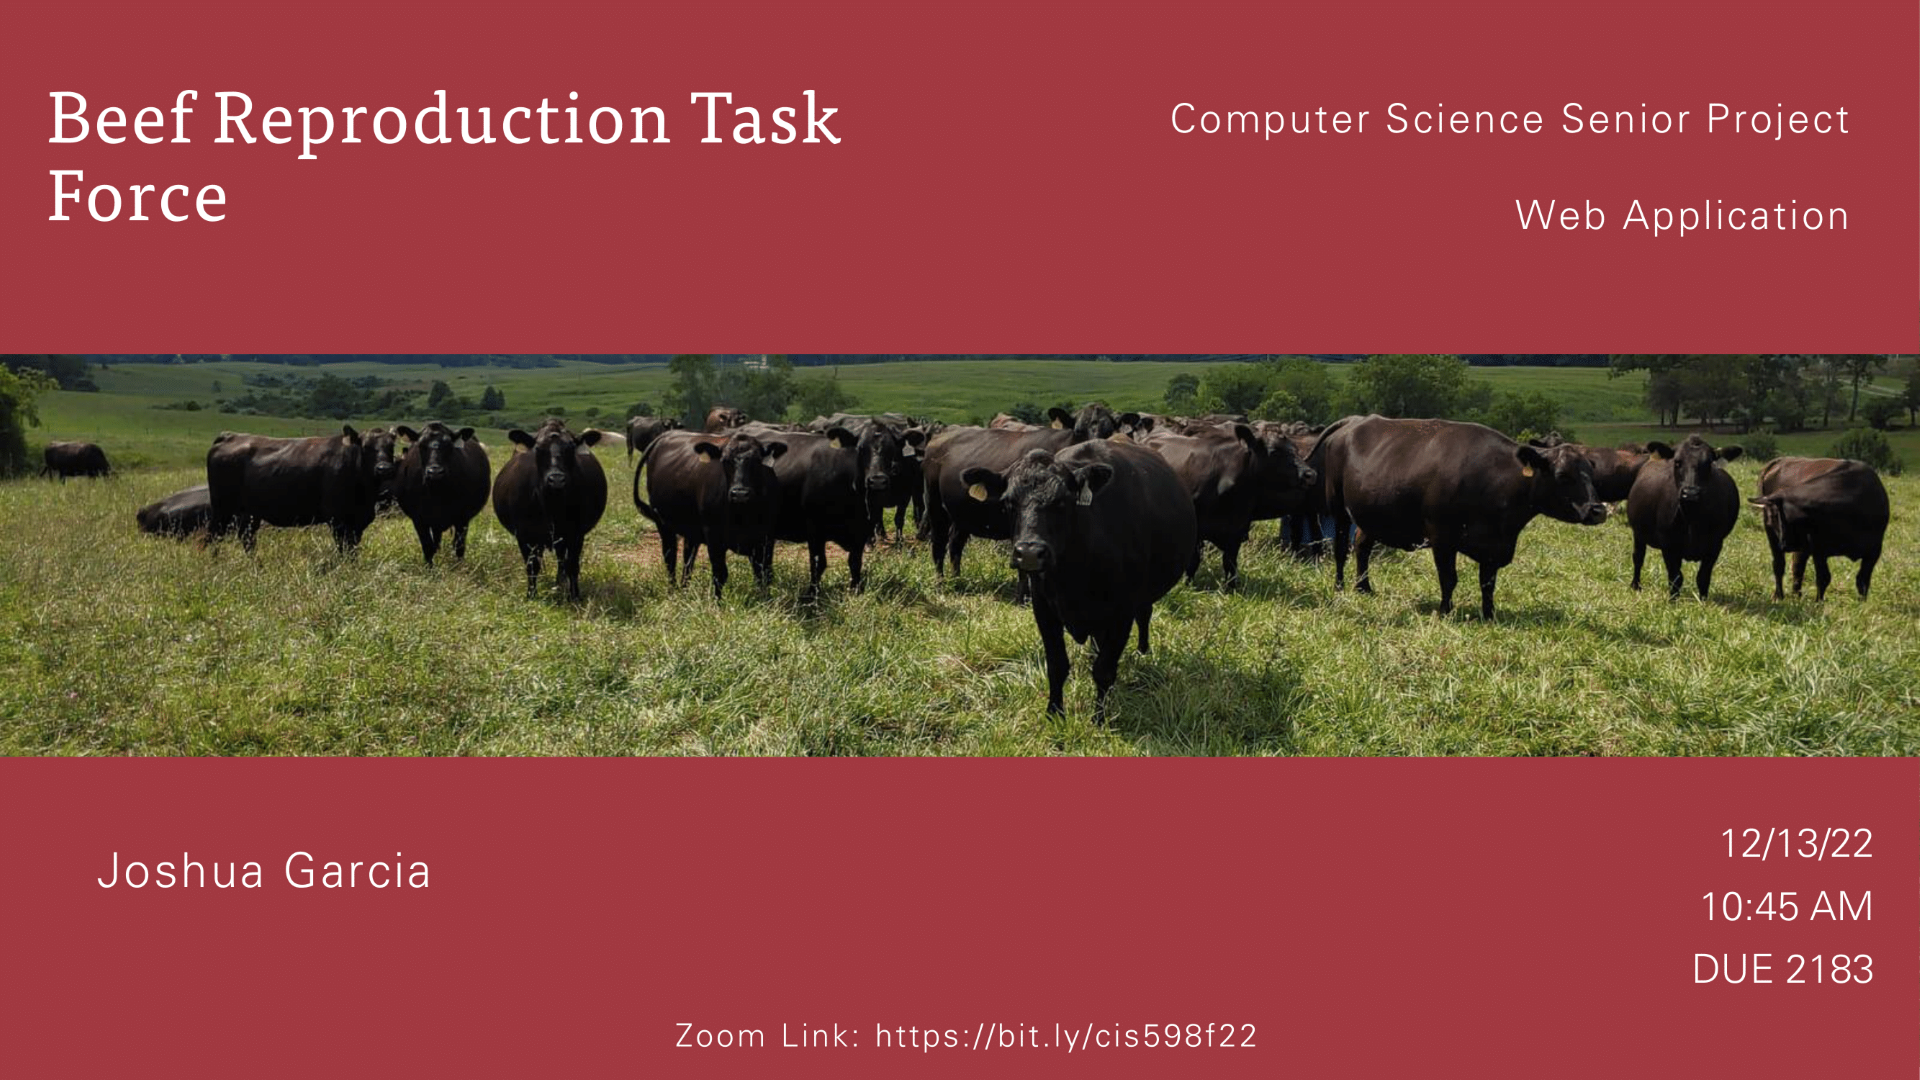
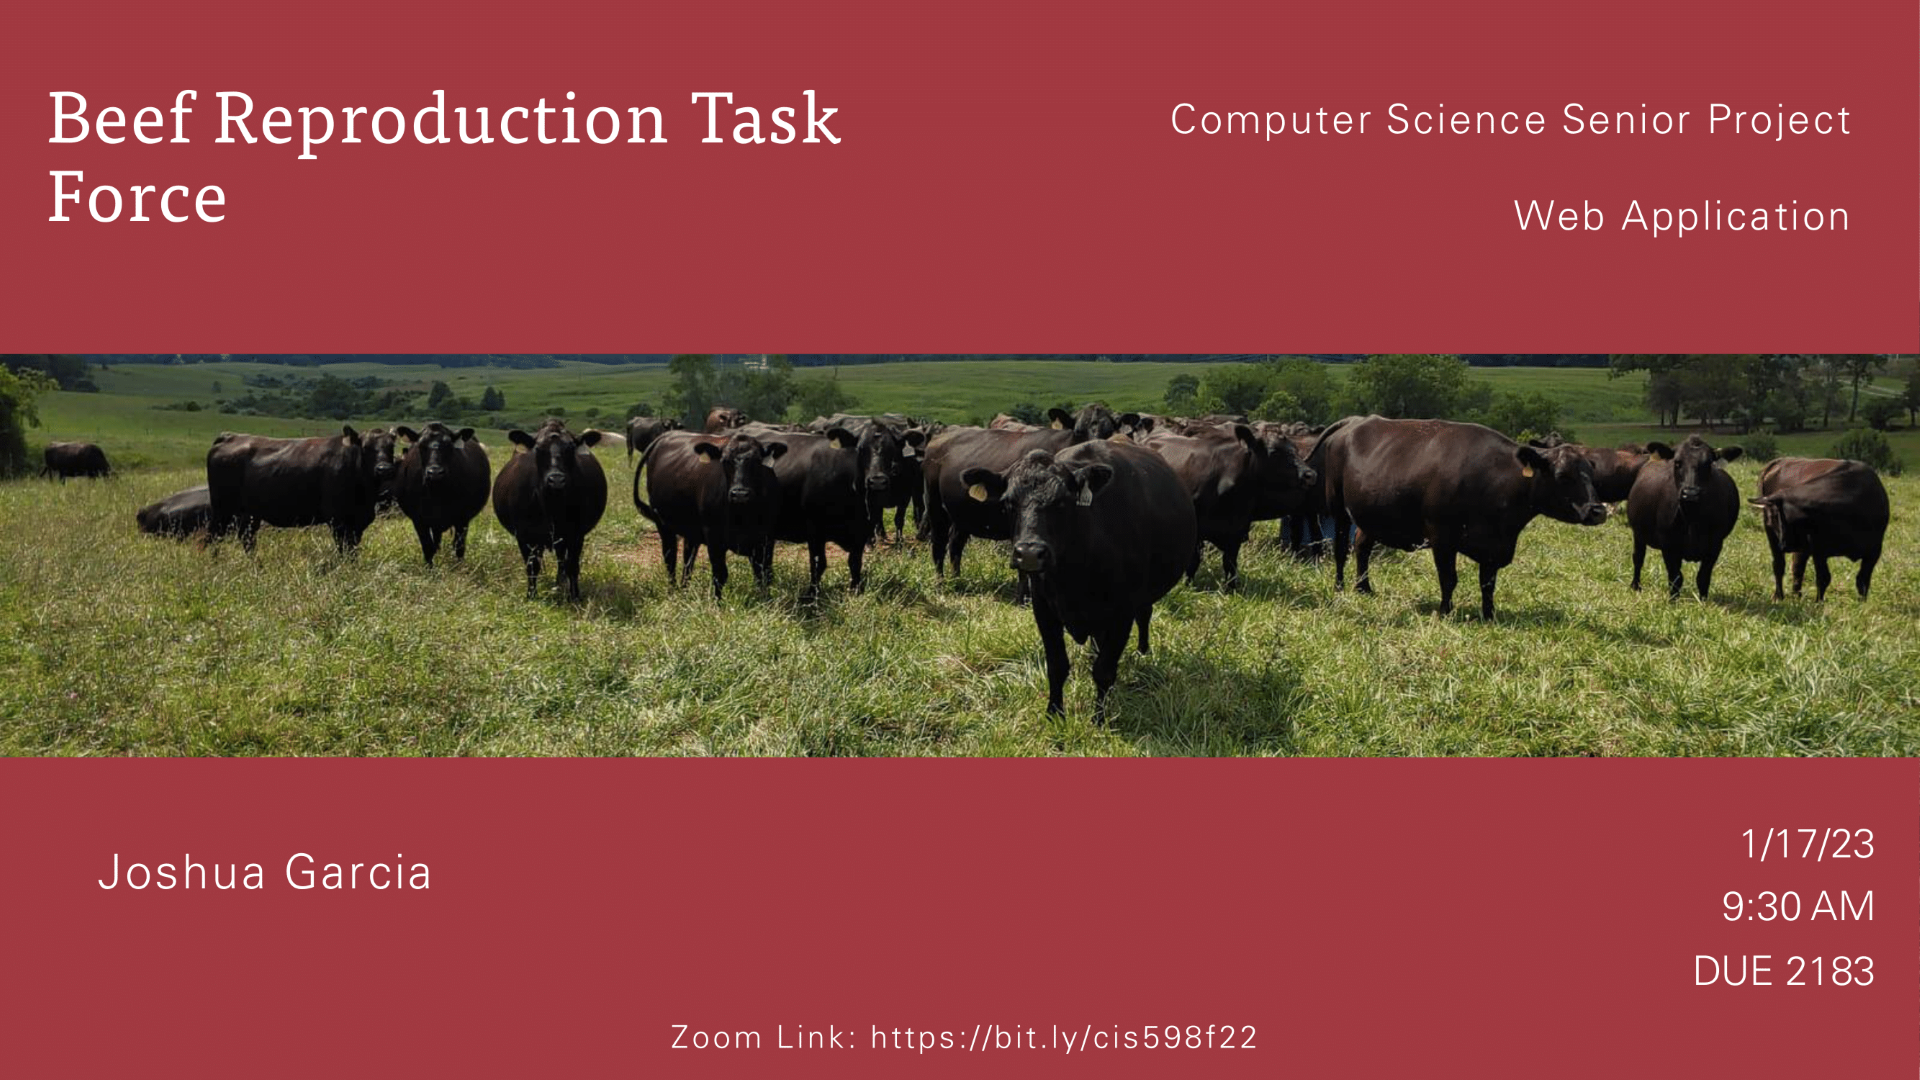
Update Presentation & Theme

diff --git a/content/b-schedule/01-fall2022.md b/content/b-schedule/01-fall2022.md
@@ -11,7 +11,6 @@ All presentations will be streamed on Zoom at [https://bit.ly/cis598f22](https:/
 | [Shepherd's Crossing]({{< ref "01-fall2022#2" >}}) | Zane Roberts | Bean | Tue., Dec. 13, 2022 | 8:15 - 9:00 | DUE 2168 |
 | [Terrestrial Things]({{< ref "01-fall2022#3" >}}) | Graham Mathews | Bean | Tue., Dec. 13, 2022 | 9:00 - 9:45 | DUE 2168 |
 | [Case Master]({{< ref "01-fall2022#4" >}}) | Charles "Trey" Bohlender | Bean | Tue., Dec. 13, 2022 | 10:00 - 10:45 | DUE 2183 |
-| [Cow Reproduction App]({{< ref "01-fall2022#5" >}}) | Joshua Garcia | Bean | Tue., Dec. 13, 2022 | 10:45 - 11:30 | DUE 2183 |
 | [Green.tld]({{< ref "01-fall2022#6" >}}) | William Raymann | Vasserman | Tue., Dec. 13, 2022 | 11:30 - 12:15 | DUE 2168 |
 | [Project 1020 Web App]({{< ref "01-fall2022#7" >}}) | Mason Lumley | Feldhausen | Tue., Dec. 13, 2022 | 12:15 -1:00 | DUE 2168 |
 | [Untitled Platformer]({{< ref "01-fall2022#8" >}}) | Austen Clemons | Bean | Tue., Dec. 13, 2022 | 2:00 - 2:45 | DUE 2168 |
@@ -37,6 +36,7 @@ All presentations will be streamed on Zoom at [https://bit.ly/cis598f22](https:/
 | [Hyperbolic & Multi Horizon Learning Algorithms]({{< ref "01-fall2022#28" >}}) | Kevin Duong | Hsu/Farrukh | Thu., Dec. 15, 2022 | 4:00 - 4:45 | DUE 2168 |
 | [Aspiring 2D Platformer]({{< ref "01-fall2022#30" >}}) | Charles Long | Feldhausen | Fri., Dec. 16, 2022 | 2:00 - 2:45 | [Zoom Link](https://ksu.zoom.us/j/93813802076) |
 | [Context Textiles]({{< ref "01-fall2022#29" >}}) | Amanda Dreesen | Feldhausen | Mon. Dec. 19, 2022 | TBD | [Zoom Link](https://bit.ly/cis598f22) |
+| [Cow Reproduction App]({{< ref "01-fall2022#5" >}}) | Joshua Garcia | Bean | Tue., Jan 17, 2023 | 9:20 - 10:30 | DUE 2183 |
 
 ## K Finder {#1}
 
@@ -69,14 +69,6 @@ Charles "Trey" Bohlender
 ![Case Master](/images/fall2022/casemaster.png)
 
 Civil and criminal attorneys have large caseloads they have to keep track of. Case Master is a CRUD case management software that is designed to help attorneys manage their large caseloads. The Case Master software allows attorneys to have quick and easy access to important information about cases stored all in one place. The Case Master software helps attorneys keep track of important information about their cases like individual contact information, deadlines, notes, and important documents. There is a shared database that can be accessed by multiple attorneys with restricted access to cases, which allows the software to work for individual attorneys and small law firms.
-
-## Cow Reproduction App {#5}
-
-Joshua Garcia
-
-![Beef Reproduction](/images/fall2022/beef.png)
-
-The Department of Animal Science from Kansas State University and Iowa State University are working together with the Beef Reproduction Task Force to create the ultimate web application to help farmers be more prepared for cattle reproduction. This web app takes in the user preferences and filters through multiple different protocols to find the best selection for the user. As time goes on, protocols will change, this web app will give the administrator the ability to update, add, or delete protocols and rules when needed.
 
 ## Green.tld {#6}
 
@@ -275,3 +267,11 @@ Charles Long
 ![2D Platformer](/images/fall2022/2dplat.jpg)
 
 My name is Charles Long, and My senior project is based around the Monogame and XNA frameworks, tentatively titled, “Aspiring 2D Platformer”. This platformer incorporates elements of combat, exploration, and classic inclusions such as traps and collectibles, that effect the overall game. Players are rewarded for exploring past the basic objectives, which result in reduced or increased difficulty of the game. As this was only my second experience with the Monogame framework, I am excited to share my progress with any who are interested. For those who are, please join my Friday December the 16th, at 2:00-3:00 pm on the following Zoom link: https://ksu.zoom.us/j/93813802076. Let me thank you now for taking the time participate, and any observations or suggestions you might share!  
+
+## Cow Reproduction App {#5}
+
+Joshua Garcia
+
+![Beef Reproduction](/images/fall2022/beef.png)
+
+The Department of Animal Science from Kansas State University and Iowa State University are working together with the Beef Reproduction Task Force to create the ultimate web application to help farmers be more prepared for cattle reproduction. This web app takes in the user preferences and filters through multiple different protocols to find the best selection for the user. As time goes on, protocols will change, this web app will give the administrator the ability to update, add, or delete protocols and rules when needed.
